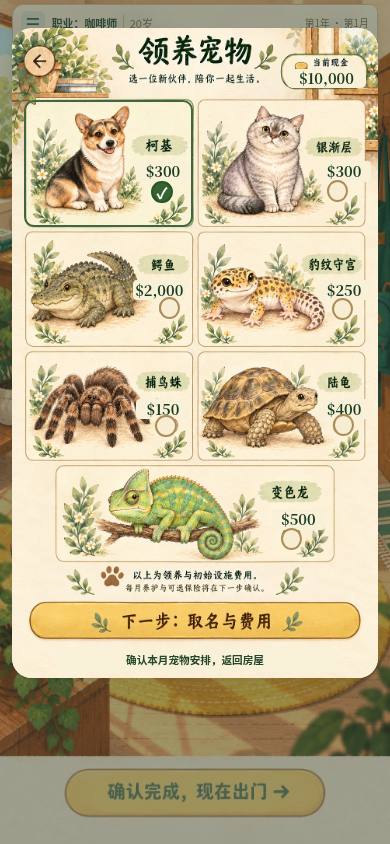
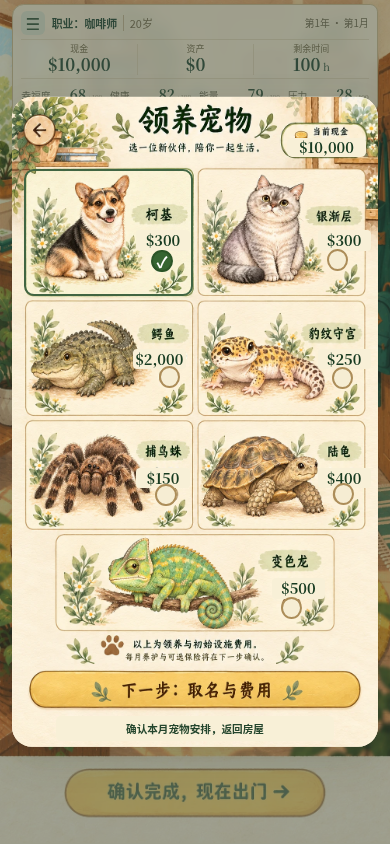
Center the pet selection card without stretching its artwork

diff --git a/sw.js b/sw.js
@@ -1,5 +1,5 @@
-const CACHE='wealth-life-v28.3-pet-entry1';
-const ASSETS=["./pet-selection-art.js?v=28.3-pet-entry1","./pet-selection-art.css?v=28.3-pet-entry1","./assets/career/pet-selection.webp","./pet-hub-art.js?v=28.3-pet-hub1","./pet-hub-art.css?v=28.3-pet-hub1","./assets/career/pet-hub.webp","./assets/career/home-mobile.webp","./room-arrangements.js?v=28.3-pet-entry1","./map-card-data.js?v=28.3-mapcards1", "./map-card-rules.js?v=28.3-mapcards1", "./map-card-system.js?v=28.3-mapcards1", "./map-card.css?v=28.3-mapcards1", "./assets/career/map-pet-unwell.webp", "./assets/career/map-pet-injury.webp", "./assets/career/map-pet-companion.webp", "./assets/career/map-pet-social.webp", "./assets/career/map-pet-mishap.webp", "./assets/career/map-investment-studio.webp", "./assets/career/map-investment-bun-shop.webp", "./assets/career/map-investment-laundry.webp"] .concat(["./cafe-rules.js?v=28.3-manager1","./cafe-system.js?v=28.3-manager1","./career-entry.js?v=28.3-mobile-room1","./career-entry.css?v=28.3-entry2","./assets/career/shift-promotion-pending.webp","./assets/career/shift-promotion-preview.webp","./assets/career/coffee-course.webp","./pet-adoption.js?v=28.3-pet-empty1","./candidate-art.js?v=28.3-candidate1","./assets/career/barista-portrait.webp","./assets/career/pet-time-shortage.webp","./assets/career/pet-funds-shortage.webp","./assets/career/pet-crocodile-care.webp","./assets/career/bank-application.webp","./assets/career/bank-payment.webp","./housing-art.js?v=28.3-housing1","./assets/career/housing-select.webp","./assets/career/housing-reserve.webp","./assets/career/living-cost.webp","./return-art.js?v=28.3-return1","./assets/career/insurance.webp","./assets/career/return-energy.webp","./assets/career/return-stress.webp","./assets/career/payday.webp","./health-art.js?v=28.3-health1","./assets/career/rest-arrange.webp","./assets/career/rest-complete.webp","./assets/career/hospital-recovery.webp","./assets/career/month-recovery.webp","./education-art.js?v=28.3-education1","./assets/career/degrees.webp","./assets/career/associate-preview.webp","./learning-art.js?v=28.3-learning1","./assets/career/learning.webp","./assets/career/management-course.webp","./assets/career/service-course.webp","./hobby-art.js?v=28.3-room2","./assets/career/hobbies.webp","./home-scene.js?v=28.3-room-unified1","./home-scene.css?v=28.3-room-unified1","./assets/career/home.webp","./release-info.js?v=28.3-internal1","./financial-crisis.js?v=28.3-internal1","./four-state.js?v=28.3-internal1","./rest-state.js?v=28.3-internal1","./coffee-salary.js?v=28.3-internal1","./housing-lease.js?v=28.3-internal1","./pet-care.js?v=28.3-internal1","./necessary-bills.js?v=28.3-internal1","./recovery-ui.js?v=28.3-internal1","./medical-insurance.js?v=28.3-internal1","./recovery-rules.js?v=28.3-internal1","./time-ledger.js?v=28.3-internal1","./time-flow.js?v=28.3-home-end1","./assets/career/town.webp","./coffee-career.js?v=28.3-mapcards1", "./assets/career/barista-staff.webp", "./assets/career/barista-busy.webp", "./assets/career/barista-cut.webp", "./assets/career/barista-tip.webp", "./assets/career/barista-departure.webp", "./assets/career/shift-training.webp", "./assets/career/shift-schedule.webp", "./assets/career/shift-schedule-success.webp", "./assets/career/shift-schedule-failure.webp", "./assets/career/shift-complaint.webp", "./assets/career/shift-complaint-success.webp", "./assets/career/shift-complaint-failure.webp", "./assets/career/shift-acting.webp", "./assets/career/shift-acting-success.webp", "./assets/career/shift-acting-failure.webp", "./assets/career/shift-praise.webp", "./assets/career/intro.webp"] .concat(["./shift-lead.js?v=28.3-internal1","./shift-lead.css?v=28.3-internal1","./paper.css?v=28.3-internal1",'./coffee.js?v=28.3-internal1','./town.js?v=28.3-internal1','./','./index.html','./core.js','./flow.js?v=28.3-internal1','./journey.js?v=28.3-internal1','./batch.js?v=28.3-mapcards1','./revision.js?v=28.3-internal1','./annual.js?v=28.3-internal1','./core.js?v=28.3-mapcards1','./presentation.js?v=28.3-candidate1','./presentation.css?v=28.3-internal1','./city.svg','./manifest.webmanifest','./icons/icon-192.png','./icons/icon-512.png']));
+const CACHE='wealth-life-v28.3-pet-center1';
+const ASSETS=["./pet-selection-art.js?v=28.3-pet-entry1","./pet-selection-art.css?v=28.3-pet-center1","./assets/career/pet-selection.webp","./pet-hub-art.js?v=28.3-pet-hub1","./pet-hub-art.css?v=28.3-pet-hub1","./assets/career/pet-hub.webp","./assets/career/home-mobile.webp","./room-arrangements.js?v=28.3-pet-entry1","./map-card-data.js?v=28.3-mapcards1", "./map-card-rules.js?v=28.3-mapcards1", "./map-card-system.js?v=28.3-mapcards1", "./map-card.css?v=28.3-mapcards1", "./assets/career/map-pet-unwell.webp", "./assets/career/map-pet-injury.webp", "./assets/career/map-pet-companion.webp", "./assets/career/map-pet-social.webp", "./assets/career/map-pet-mishap.webp", "./assets/career/map-investment-studio.webp", "./assets/career/map-investment-bun-shop.webp", "./assets/career/map-investment-laundry.webp"] .concat(["./cafe-rules.js?v=28.3-manager1","./cafe-system.js?v=28.3-manager1","./career-entry.js?v=28.3-mobile-room1","./career-entry.css?v=28.3-entry2","./assets/career/shift-promotion-pending.webp","./assets/career/shift-promotion-preview.webp","./assets/career/coffee-course.webp","./pet-adoption.js?v=28.3-pet-empty1","./candidate-art.js?v=28.3-candidate1","./assets/career/barista-portrait.webp","./assets/career/pet-time-shortage.webp","./assets/career/pet-funds-shortage.webp","./assets/career/pet-crocodile-care.webp","./assets/career/bank-application.webp","./assets/career/bank-payment.webp","./housing-art.js?v=28.3-housing1","./assets/career/housing-select.webp","./assets/career/housing-reserve.webp","./assets/career/living-cost.webp","./return-art.js?v=28.3-return1","./assets/career/insurance.webp","./assets/career/return-energy.webp","./assets/career/return-stress.webp","./assets/career/payday.webp","./health-art.js?v=28.3-health1","./assets/career/rest-arrange.webp","./assets/career/rest-complete.webp","./assets/career/hospital-recovery.webp","./assets/career/month-recovery.webp","./education-art.js?v=28.3-education1","./assets/career/degrees.webp","./assets/career/associate-preview.webp","./learning-art.js?v=28.3-learning1","./assets/career/learning.webp","./assets/career/management-course.webp","./assets/career/service-course.webp","./hobby-art.js?v=28.3-room2","./assets/career/hobbies.webp","./home-scene.js?v=28.3-room-unified1","./home-scene.css?v=28.3-room-unified1","./assets/career/home.webp","./release-info.js?v=28.3-internal1","./financial-crisis.js?v=28.3-internal1","./four-state.js?v=28.3-internal1","./rest-state.js?v=28.3-internal1","./coffee-salary.js?v=28.3-internal1","./housing-lease.js?v=28.3-internal1","./pet-care.js?v=28.3-internal1","./necessary-bills.js?v=28.3-internal1","./recovery-ui.js?v=28.3-internal1","./medical-insurance.js?v=28.3-internal1","./recovery-rules.js?v=28.3-internal1","./time-ledger.js?v=28.3-internal1","./time-flow.js?v=28.3-home-end1","./assets/career/town.webp","./coffee-career.js?v=28.3-mapcards1", "./assets/career/barista-staff.webp", "./assets/career/barista-busy.webp", "./assets/career/barista-cut.webp", "./assets/career/barista-tip.webp", "./assets/career/barista-departure.webp", "./assets/career/shift-training.webp", "./assets/career/shift-schedule.webp", "./assets/career/shift-schedule-success.webp", "./assets/career/shift-schedule-failure.webp", "./assets/career/shift-complaint.webp", "./assets/career/shift-complaint-success.webp", "./assets/career/shift-complaint-failure.webp", "./assets/career/shift-acting.webp", "./assets/career/shift-acting-success.webp", "./assets/career/shift-acting-failure.webp", "./assets/career/shift-praise.webp", "./assets/career/intro.webp"] .concat(["./shift-lead.js?v=28.3-internal1","./shift-lead.css?v=28.3-internal1","./paper.css?v=28.3-internal1",'./coffee.js?v=28.3-internal1','./town.js?v=28.3-internal1','./','./index.html','./core.js','./flow.js?v=28.3-internal1','./journey.js?v=28.3-internal1','./batch.js?v=28.3-mapcards1','./revision.js?v=28.3-internal1','./annual.js?v=28.3-internal1','./core.js?v=28.3-mapcards1','./presentation.js?v=28.3-candidate1','./presentation.css?v=28.3-internal1','./city.svg','./manifest.webmanifest','./icons/icon-192.png','./icons/icon-512.png']));
 self.addEventListener('install',e=>{self.skipWaiting();e.waitUntil(caches.open(CACHE).then(c=>c.addAll(ASSETS)))});
 self.addEventListener('activate',e=>e.waitUntil(Promise.all([caches.keys().then(keys=>Promise.all(keys.filter(k=>k.startsWith('wealth-life-')&&k!==CACHE).map(k=>caches.delete(k)))),self.clients.claim()])));
 // Register the cache lifetime synchronously while the fetch event is active.

diff --git a/pet-selection-art.css b/pet-selection-art.css
@@ -1,4 +1,4 @@
-.event.event-active.pet-selection-painted{padding:0!important;border:0!important;border-radius:20px!important;max-width:440px;background:#fbf1d9!important;top:calc(28px + env(safe-area-inset-top,0px))!important;max-height:calc(100dvh - 48px - env(safe-area-inset-top,0px) - env(safe-area-inset-bottom,0px))!important;scroll-padding-top:12px}
+.event.event-active.pet-selection-painted{padding:0!important;border:0!important;border-radius:20px!important;max-width:440px;background:#fbf1d9!important;top:calc(50dvh + (env(safe-area-inset-top,0px) - env(safe-area-inset-bottom,0px))/2)!important;transform:translateY(-50%);max-height:calc(100dvh - 40px - env(safe-area-inset-top,0px) - env(safe-area-inset-bottom,0px))!important;overflow-y:auto!important;scroll-padding-top:12px}
 .pet-selection-painted>.row,.pet-selection-painted>#eventTitle,.pet-selection-painted>#eventDesc,.pet-selection-painted>#actions,.pet-selection-painted #eventClose{display:none!important}
 .pet-selection-painted #eventData{display:block!important;margin:0;padding:0;max-height:none!important;overflow:visible!important}
 .pet-adoption-sheet{position:relative;width:100%;container-type:inline-size}

diff --git a/index.html b/index.html
@@ -592,6 +592,6 @@ window.v245OpenHousing=()=>document.getElementById('housingBtn').click();
 <script src="room-arrangements.js?v=28.3-pet-entry1"></script>
 <link rel="stylesheet" href="pet-hub-art.css?v=28.3-pet-hub1">
 <script src="pet-hub-art.js?v=28.3-pet-hub1"></script>
-<link rel="stylesheet" href="pet-selection-art.css?v=28.3-pet-entry1">
+<link rel="stylesheet" href="pet-selection-art.css?v=28.3-pet-center1">
 <script src="pet-selection-art.js?v=28.3-pet-entry1"></script>
 </body></html>

diff --git a/qa/browser-pet-selection.py b/qa/browser-pet-selection.py
@@ -12,7 +12,9 @@ with sync_playwright() as p:
  page.locator('#roomView [data-room="pets"]').click()
  page.wait_for_function('document.querySelector(".pet-adoption-sheet img")?.naturalWidth>0')
  assert page.locator('.pet-sheet-cash').inner_text()=='$10,000'
- assert page.locator('.event-active').bounding_box()['y']>=28
+ box=page.locator('.event-active').bounding_box()
+ assert abs(box['y']+box['height']/2-844/2)<1
+ assert abs(box['x']+box['width']/2-390/2)<1
  page.screenshot(path='qa/browser-evidence/pet-selection-sheet.png',full_page=True)
  before=page.evaluate('({cash:state.cash,month:state.month,pets:state.pets.length,free:currentCareerTime().free})')
  for name in ['柯基','银渐层','鳄鱼','豹纹守宫','捕鸟蛛','陆龟','变色龙']:
@@ -24,12 +26,18 @@ with sync_playwright() as p:
  assert page.evaluate('state.cash')==10000 and page.evaluate('state.pets.length')==0
  page.get_by_role('button',name='返回品种选择',exact=True).click()
  assert page.locator('.pet-selection-painted').count()==1
- for width,height in [(320,740),(390,844)]:
+ for width,height in [(320,568),(390,844),(1280,900)]:
   page.set_viewport_size({'width':width,'height':height});assert page.locator('.event-active').evaluate('(e)=>e.scrollWidth<=e.clientWidth')
+  box=page.locator('.event-active').bounding_box()
+  assert abs(box['y']+box['height']/2-height/2)<1
+  assert abs(box['x']+box['width']/2-width/2)<1
+  assert box['y']>=19 and box['y']+box['height']<=height-19
+  assert page.locator('.pet-adoption-sheet img').evaluate('(i)=>Math.abs(i.clientWidth/i.clientHeight-i.naturalWidth/i.naturalHeight)<.01')
+ page.set_viewport_size({'width':390,'height':844})
  page.get_by_role('button',name='返回我的宠物',exact=True).click();assert page.locator('#eventTitle').inner_text()=='我的宠物'
  page.evaluate('clearModals();townHome()');page.locator('#roomView [data-room="pets"]').click()
  page.get_by_role('button',name='确认本月宠物安排，返回房屋',exact=True).click();assert page.locator('[data-room="pets"] .room-check').inner_text()=='✓'
  assert page.evaluate('state.pets.length')==0 and page.evaluate('state.cash')==10000
  assert not errors,errors
- result={'passed':True,'checks':['房屋宠物按钮直达七宠图，卡片顶部下移至28px以上，现金真实覆盖','七种画像按钮分别选中，唯一勾选，不收费/耗时/领养','下一步打开所选变色龙原取名费用表单，返回仍回原图','320/390px无横向溢出，返回主页及不领养确认回房打勾，无页面异常'],'pageErrors':errors,'limitations':['隔离Chromium，非真机','未重新验证全部最终领养交易']}
+ result={'passed':True,'checks':['房屋宠物按钮直达七宠图，卡片上下左右居中，现金真实覆盖','七种画像按钮分别选中，唯一勾选，不收费/耗时/领养','下一步打开所选变色龙原取名费用表单，返回仍回原图','320矮屏/390px/桌面居中且保留边距，图片无拉伸，返回及确认正常，无页面异常'],'pageErrors':errors,'limitations':['隔离Chromium，非真机','未重新验证全部最终领养交易']}
  Path('qa/browser-evidence/pet-selection.json').write_text(json.dumps(result,ensure_ascii=False,indent=2)+'\n');print(json.dumps(result,ensure_ascii=False,indent=2));ctx.close();b.close()

diff --git a/qa/browser-month-loop.py b/qa/browser-month-loop.py
@@ -64,7 +64,7 @@ with sync_playwright() as p:
  ctx=b.new_context();page=ctx.new_page();page.goto('http://127.0.0.1:8765',wait_until='networkidle')
  page.evaluate('navigator.serviceWorker.ready');page.reload(wait_until='networkidle')
  page.wait_for_function('navigator.serviceWorker.controller!==null')
- assert page.evaluate('caches.keys()')==['wealth-life-v28.3-pet-entry1']
+ assert page.evaluate('caches.keys()')==['wealth-life-v28.3-pet-center1']
  ctx.set_offline(True);page.reload(wait_until='networkidle')
  (page.locator('#careerPreview') if page.locator('#careerPreview').is_visible() else page.get_by_role('button',name='存档 1 · 新游戏',exact=True)).click();page.locator('#job').select_option('barista')
  assert page.locator('#coffeeIntro img').evaluate('(x)=>x.complete&&x.naturalWidth>0')

diff --git a/CODEX_HANDOFF.md b/CODEX_HANDOFF.md
@@ -4,6 +4,8 @@
 
 最新修正：未领养时房屋“宠物”直接打开七宠图，已有宠物保留管理/照护入口。卡片顶部28px加手机安全区（原12px），最大高度同步；底部可明确确认本月无新增领养并回屋打勾。当前缓存 `wealth-life-v28.3-pet-entry1`。相关3个Node测试和七宠/主卡浏览器回归通过，未真机验证，尚未上传。
 
+最新排版覆盖：用户要求七宠卡片整张居中。现按安全区上下左右居中，不再固定顶部；矮屏保留边距/滚动，图片不拉伸。缓存 `wealth-life-v28.3-pet-center1`。资源测试与完整七宠浏览器回归、三种视口居中/比例断言通过。仅本地保存。
+
 用户要求领养选择直接使用旧七宠图，已从候选 `libfile_9fc814642ebc81919a916e2158273feb` 原字节接入运行图 `assets/career/pet-selection.webp`。图上现金/报价动态覆盖，七个画像选择仅预览，下一步沿原取名/费用/保单表单，不直接领养扣款。详见 [七宠选择记录](progress/pet-selection-2026-10-25.md)。生产资源56，候选459原样；缓存 `wealth-life-v28.3-pet-select1`。相关2个Node测试及七宠选择/主卡浏览器回归通过，仅本地保存未上传。
 
 ## 本地后续：手绘宠物主卡（2026-10-25）

diff --git a/progress/pet-selection-2026-10-25.md b/progress/pet-selection-2026-10-25.md
@@ -21,3 +21,5 @@
 为保留“无须领养也能完成本月宠物确认”，未养宠且来自房屋确认时，图底部原返回位置显示明确的“确认本月宠物安排，返回房屋”，调用原确认回调；左上返回仍可查看原宠物管理页。选择画像本身仍不收费/不领养/不打勾。缓存 `wealth-life-v28.3-pet-entry1`。
 
 相关3个Node测试及七宠/原主卡两份浏览器回归通过：实际房屋入口直达、顶部28px、七物种选择/原下一步、无领养确认回屋打勾、已养宠管理分支及320/390px无溢出。未实测真实iPhone刘海/浏览器工具栏，仅在CSS保留安全区计算。截图已更新。本轮仍仅本地保存。
+
+用户随后要求整张卡片居中、不要拉伸。现改为安全区内水平/垂直居中，不再固定顶部28px；图片原比例、按钮坐标不变。较矮屏幕限制卡片高度并保留内部滚动及至少约20px边距。缓存 `wealth-life-v28.3-pet-center1`。资源清单测试、diff检查及完整七宠选择浏览器回归通过，额外断言320×568、390×844、1280×900的卡片中心与视口中心一致（误差<1px）、保留边距、图片比例一致。截图更新；未真机验收，未上传。

diff --git a/NEXT_SESSION.md b/NEXT_SESSION.md
@@ -13,6 +13,8 @@
 
 该文件末尾最新覆盖：未领养时房屋宠物按钮直达七宠图，卡片顶部下移至28px+安全区，底部可明确确认本月宠物安排后回屋。已有宠物保留原管理入口。缓存 `wealth-life-v28.3-pet-entry1`，本地未上传。
 
+最新居中修正：七宠卡片改为安全区内上下左右居中，图像原比例、矮屏可滚动；当前缓存 `wealth-life-v28.3-pet-center1`，不再使用固定顶部28px。详见上述进度文件末尾。
+
 用户已确认最终开场流程，并明确要求“保存进度，更新上传”。本轮上传同一开发分支；不合并main、不正式部署。此前文档的“仅本地/未上传”属于当时历史状态，由本检查点覆盖。
 
 ## 当前确认流程
